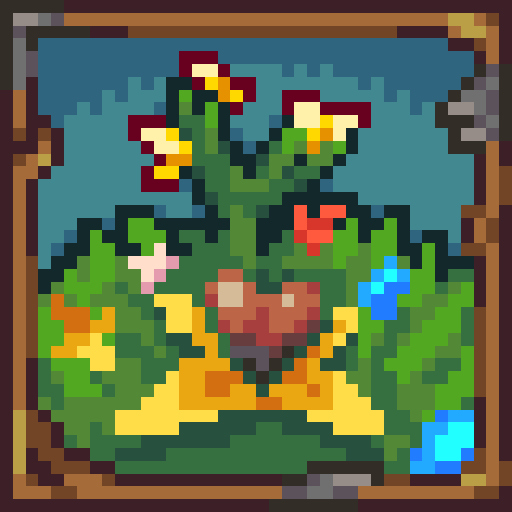
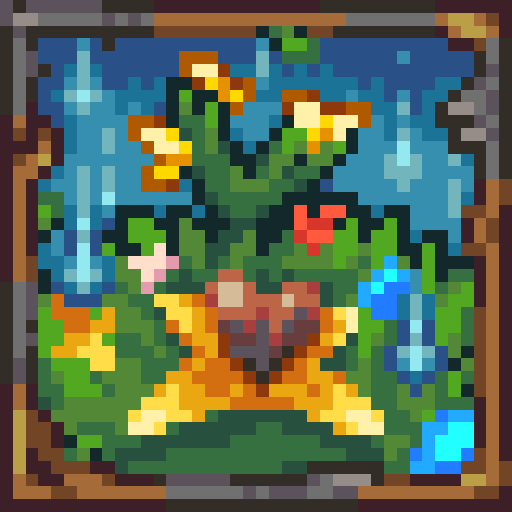
1.3.0.2

diff --git a/Systems/TearRain/TearRainRendering.cs b/Systems/TearRain/TearRainRendering.cs
@@ -66,10 +66,10 @@ internal class TearRainRendering : ModSystem
         const int ScreenOffset = 20;
 
         Vector2 screenPos = Main.screenPosition;
-        int left = (int)(screenPos.X / 16f) - ScreenOffset;
-        int right = (int)((screenPos.X + Main.screenWidth) / 16f) + ScreenOffset;
-        int top = Math.Min((int)(screenPos.Y / 16f) - ScreenOffset, (int)Main.worldSurface);
-        int bottom = (int)((screenPos.Y + Main.screenHeight) / 16f) + ScreenOffset;
+        int left = Math.Max(ScreenOffset, (int)(screenPos.X / 16f) - ScreenOffset);
+        int right = Math.Min(Main.maxTilesX - ScreenOffset, (int)((screenPos.X + Main.screenWidth) / 16f) + ScreenOffset);
+        int top = Math.Max((int)Main.worldSurface, (int)(screenPos.Y / 16f) - ScreenOffset);
+        int bottom = Math.Min(Main.maxTilesY - 200, (int)((screenPos.Y + Main.screenHeight) / 16f) + ScreenOffset);
 
         int chance = (int)MathHelper.Lerp(400, 16, TearRainSystem.RainStrength);
         byte frameRange = (byte)(TearRainSystem.RainStrength > 0.6f ? 6 : 3);
